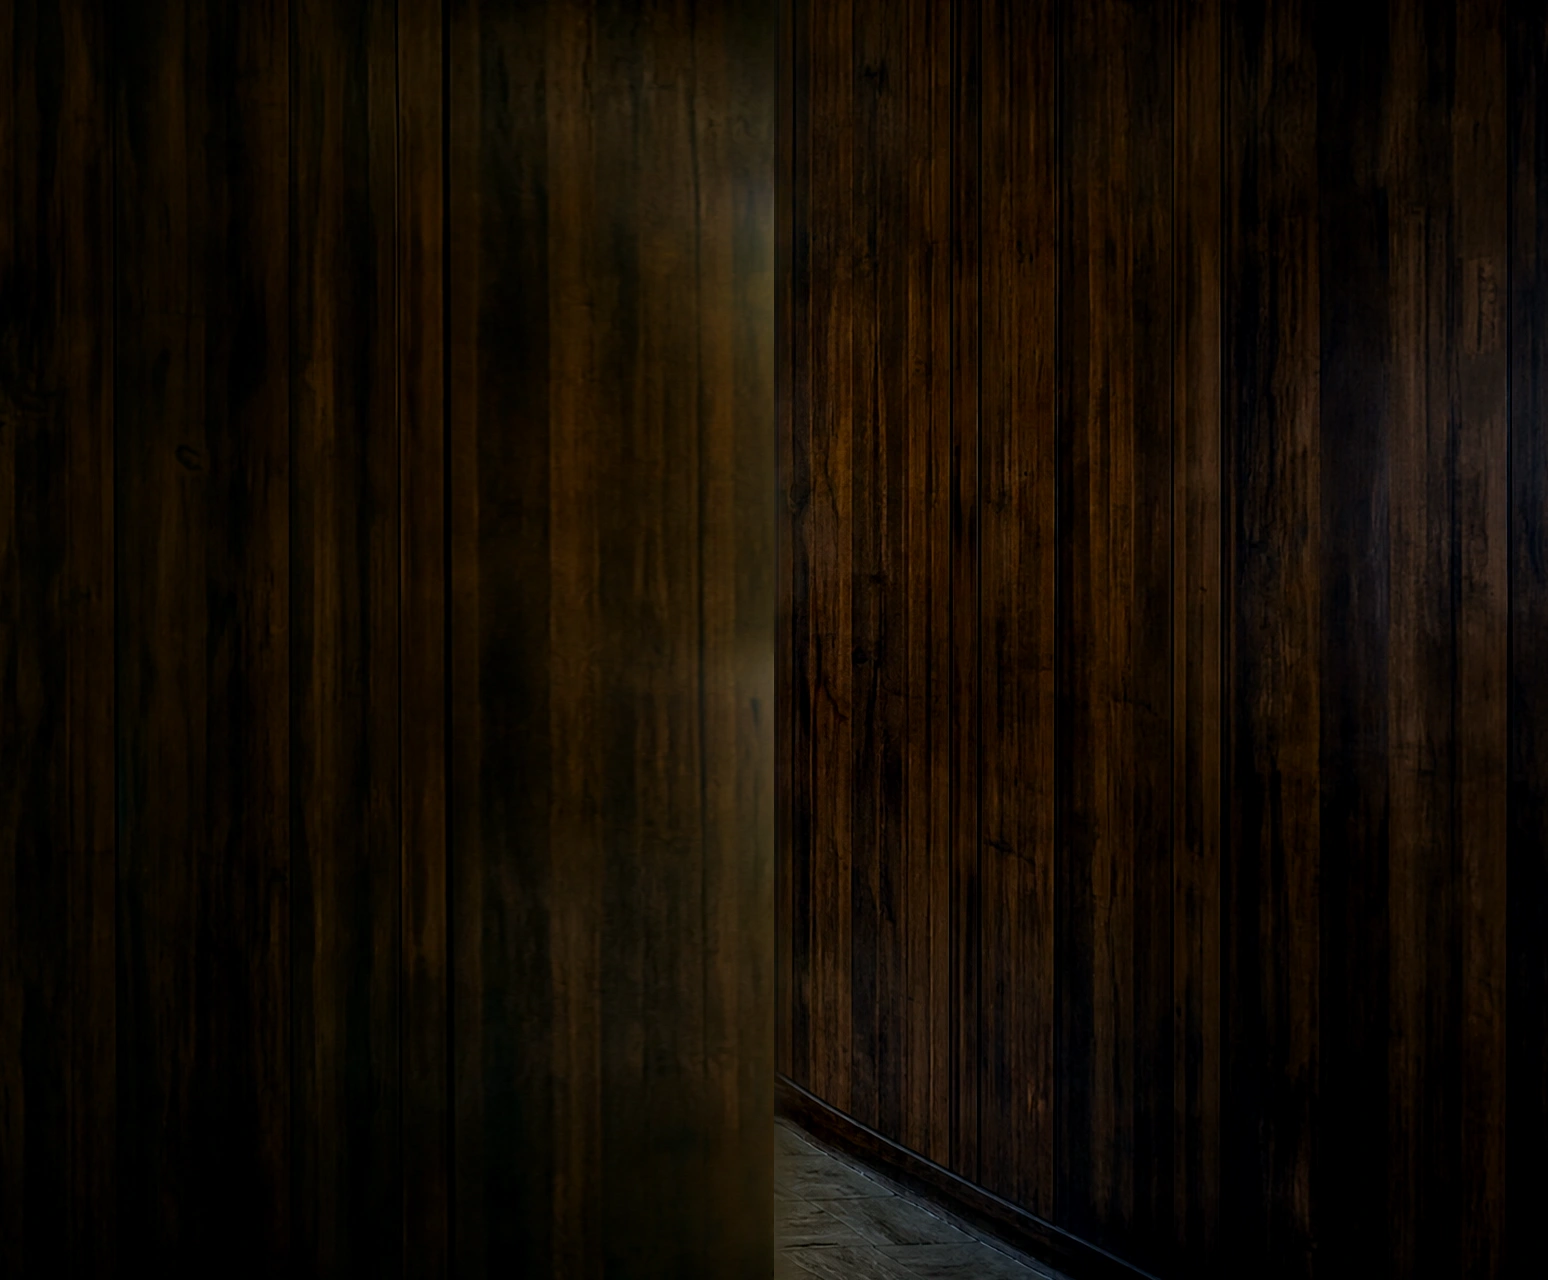
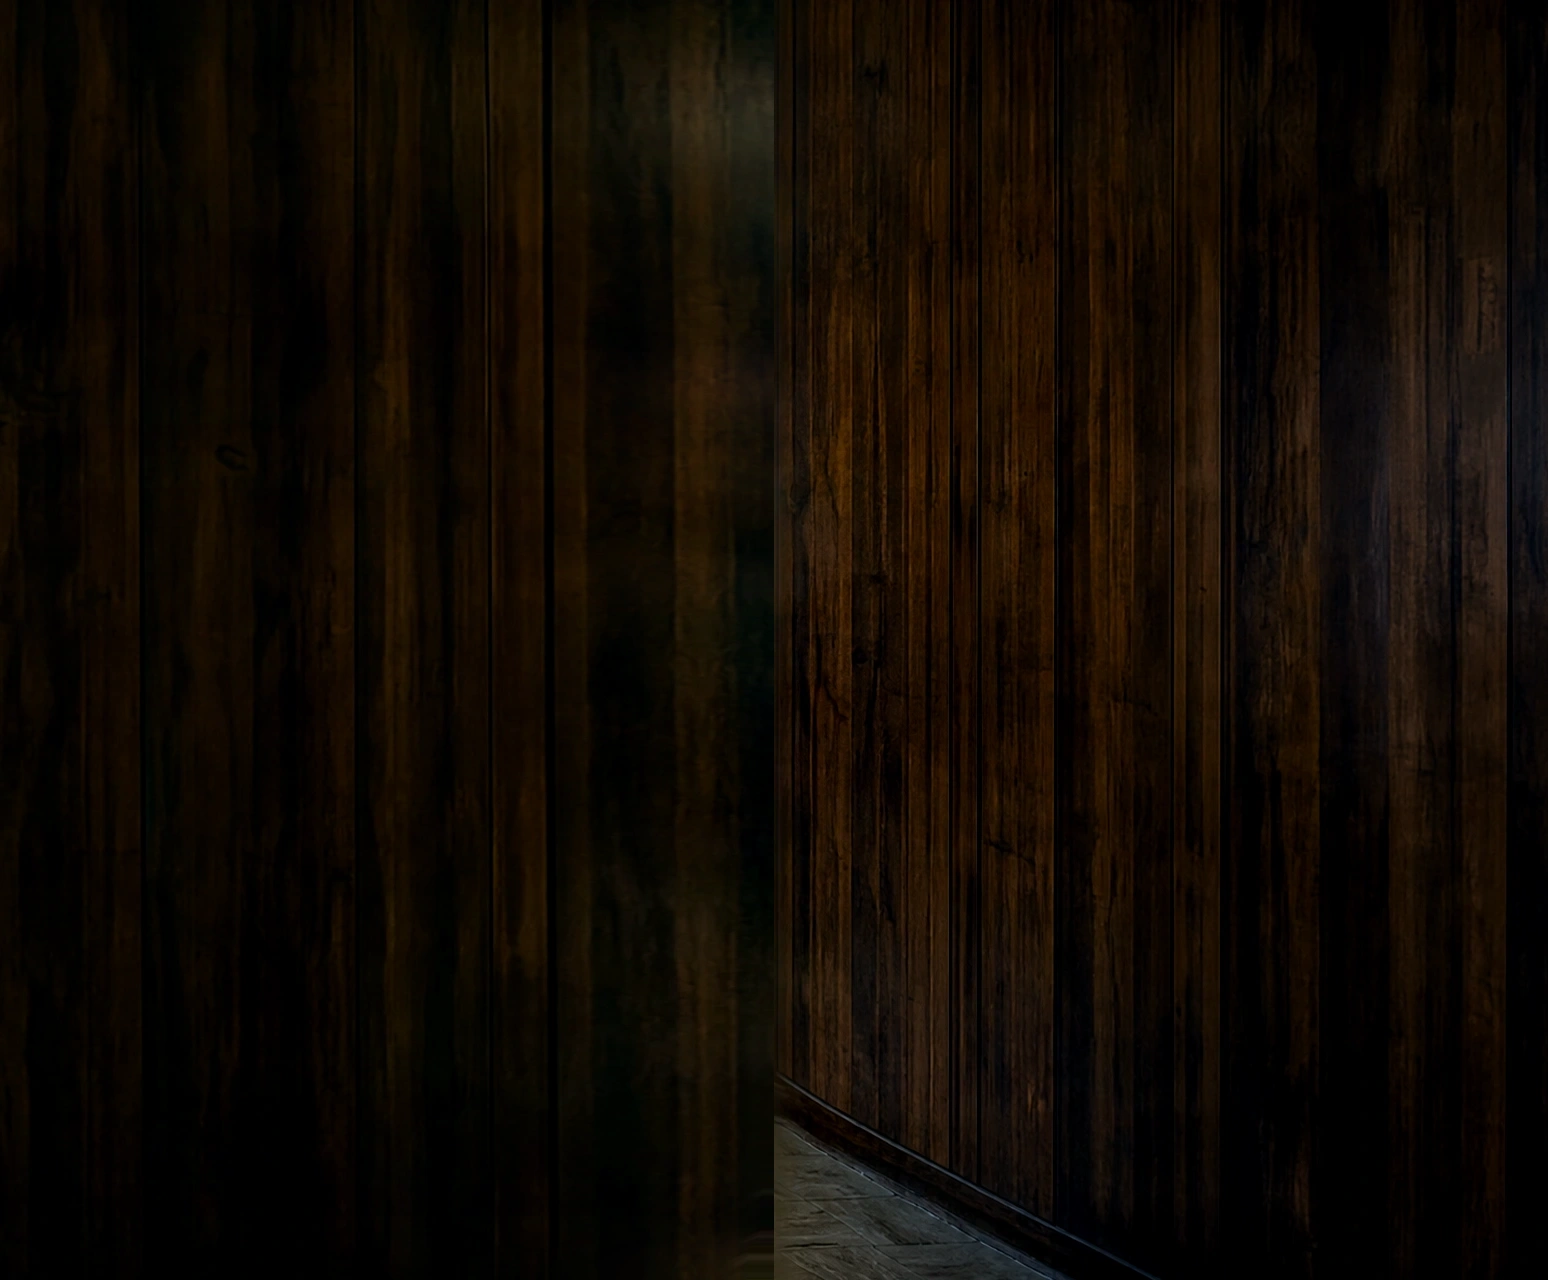
Resolve RS curtain and RBiH switch at panorama joins

diff --git a/src/ui/map/components/warroom/warroom-scene-plate.css b/src/ui/map/components/warroom/warroom-scene-plate.css
@@ -12,7 +12,7 @@
 
 .warroom-scene-wing--left {
   /* Cover fractional-pixel joins behind the original plate. */
-  right: calc(100% - 1px);
+  right: calc(100% - var(--wing-overlap));
   background-position: left center;
 }
 
@@ -23,6 +23,16 @@
 
 @media (min-aspect-ratio: 43/24) {
   .warroom-scene-wing { display: block; }
+
+  /* The original RS crop shows a sliver of a curtain at the boundary.
+     The wide atlas carries solid paneling up to that contour. */
+  [data-cover-left-curtain="true"] > .warroom-scene-wing--left {
+    --wing-overlap: 2.5742%;
+  }
+
+  [data-cover-left-curtain="true"] > img {
+    clip-path: polygon(0 0, 100% 0, 100% 100%, 1.3525% 100%, 1.4834% 97.6563%, 2.007% 96.0938%, 2.1379% 93.75%, 1.8761% 89.8438%, 1.4834% 85.9375%, 1.3089% 82.0313%, 1.2653% 78.125%, 1.178% 70.3125%, 1.178% 62.5%, 1.1344% 54.6875%, 1.0471% 46.875%, 0.9162% 39.0625%, 0.7853% 31.25%, 0.5672% 23.4375%, 0.349% 15.625%, 0.1745% 11.7188%, 0% 8.9844%);
+  }
 
   /* The RBiH source has a bright edge across the clipped switch plate.
      Fade just that decorative edge over its prepared seven-pixel overlap. */

diff --git a/tests/ui/warroom_scene_continuity.test.ts b/tests/ui/warroom_scene_continuity.test.ts
@@ -84,11 +84,12 @@ describe('Warroom scene continuity', () => {
   it('keeps both panoramic extensions and the interactive children in the original coordinate frame', () => {
     render(createElement(
       WarroomScenePlate,
-      { src: '/room.webp', wideSrc: '/wings.webp', softenRightJoin: true },
+      { src: '/room.webp', wideSrc: '/wings.webp', softenRightJoin: true, coverLeftCurtain: true },
       createElement('button', { type: 'button' }, 'Hotspot'),
     ));
     const plate = screen.getByTestId('warroom-scene-plate');
     expect(plate.getAttribute('data-soften-right-join')).toBe('true');
+    expect(plate.getAttribute('data-cover-left-curtain')).toBe('true');
     const wings = screen.getAllByTestId('warroom-scene-wing');
     expect(wings).toHaveLength(2);
     for (const wing of wings) {

diff --git a/src/ui/map/components/warroom/WarroomScenePlate.tsx b/src/ui/map/components/warroom/WarroomScenePlate.tsx
@@ -9,6 +9,7 @@ export interface WarroomScenePlateProps {
   src: string;
   wideSrc?: string;
   softenRightJoin?: boolean;
+  coverLeftCurtain?: boolean;
   state?: 'current' | 'incoming';
   transformOrigin?: string;
   className?: string;
@@ -23,6 +24,7 @@ export function WarroomScenePlate({
   src,
   wideSrc,
   softenRightJoin,
+  coverLeftCurtain,
   state = 'current',
   transformOrigin,
   className,
@@ -38,6 +40,7 @@ export function WarroomScenePlate({
       data-testid="warroom-scene-plate"
       data-scene-state={state}
       data-soften-right-join={wideSrc && softenRightJoin ? true : undefined}
+      data-cover-left-curtain={wideSrc && coverLeftCurtain ? true : undefined}
       style={{
         position: 'absolute',
         left: '50%',

diff --git a/src/ui/map/components/warroom/WarroomShellLayer.tsx b/src/ui/map/components/warroom/WarroomShellLayer.tsx
@@ -1123,6 +1123,7 @@ export function WarroomShellLayer({ onNavigate, onOpenSidePicker, statusDock }: 
       <WarroomScenePlate src={scenePlateUrl}
         wideSrc={warroomWideSceneUrl(playerFaction, year)}
         softenRightJoin={playerFaction === 'RBiH'}
+        coverLeftCurtain={playerFaction === 'RS'}
       >
         <WarroomToolbar onNavigate={onNavigate} />
         {statusDock}

diff --git a/docs/PROJECT_LEDGER.md b/docs/PROJECT_LEDGER.md
@@ -14126,3 +14126,10 @@ Rebuilt all 15 extensions using one fixed side-art master per faction. RBiH uses
 - Compared five-year sequences and inspected 30 joins. The normal and ultrawide browser matrix verified 12 live rooms, each with ten registered targets and overlays, and direct scene previews covered all three 1991 entries.
 - Focused Warroom tests 111/111, followed by 23/23 after the RBiH join change. Typecheck, production map build, all 15 packaged map atlases, chunk cycle check, and board-luminance check passed. No simulation, state, save, scenario, or calibration changes.
 - Evidence is under F:/AWWV-worktrees/.warroom-ultrawide/continuity-fix. No native Electron package or hosted CI run in this slice.
+
+## 2026-11-08 — Correct RS and RBiH panorama joins (UI, ART)
+
+Reviewed both joins in all 15 scenes after player feedback. The five RS left wings carry wood paneling across the old curtain fragment. A contour applied to the center art only on wide screens clears the fragment while preserving the adjacent coat-rack hotspot. The five RBiH right wings extend the original switch with a blank face and one bezel.
+
+- Chromium verified eight hittable objects, the live map, the date board, and edge coverage in all 12 playable rooms at 1280 × 720 and 3426 × 1186. Direct previews covered all three 1991 plates at both sizes.
+- All 30 focused tests, typecheck, the production map build, the chunk cycle check, and the inventory of 15 bundled atlases passed. Evidence is under F:/AWWV-worktrees/.warroom-ultrawide/continuity-detail.
